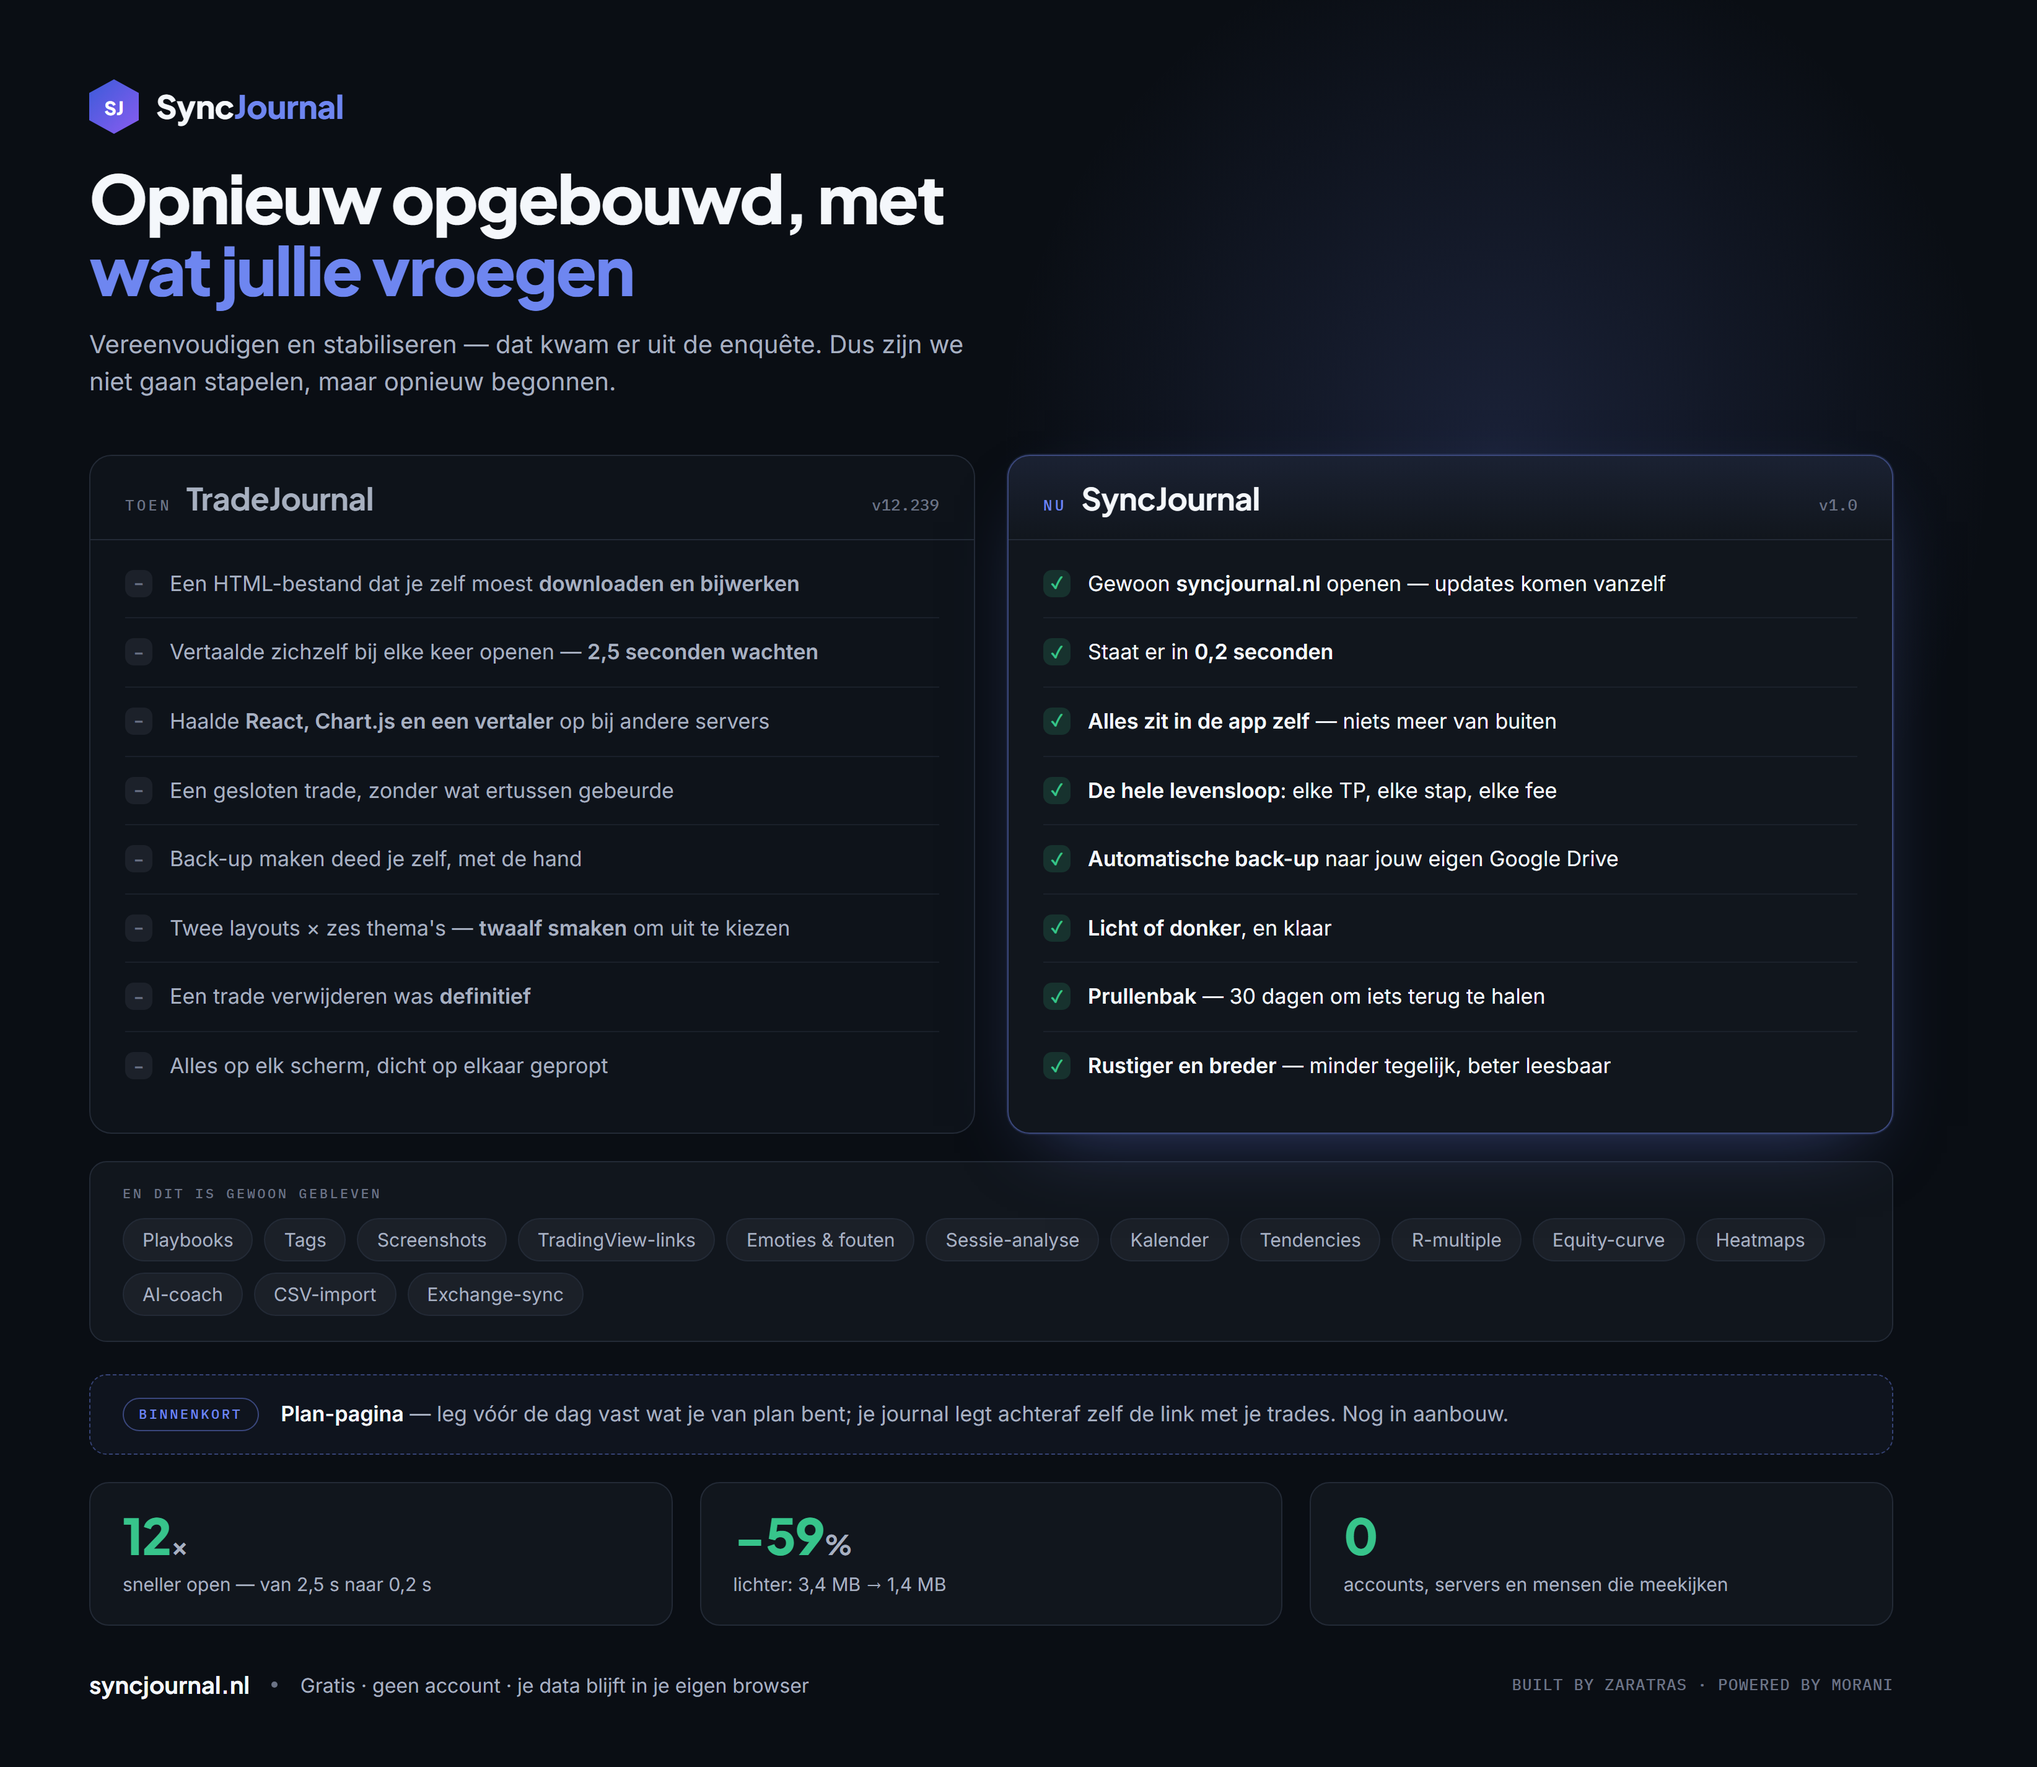
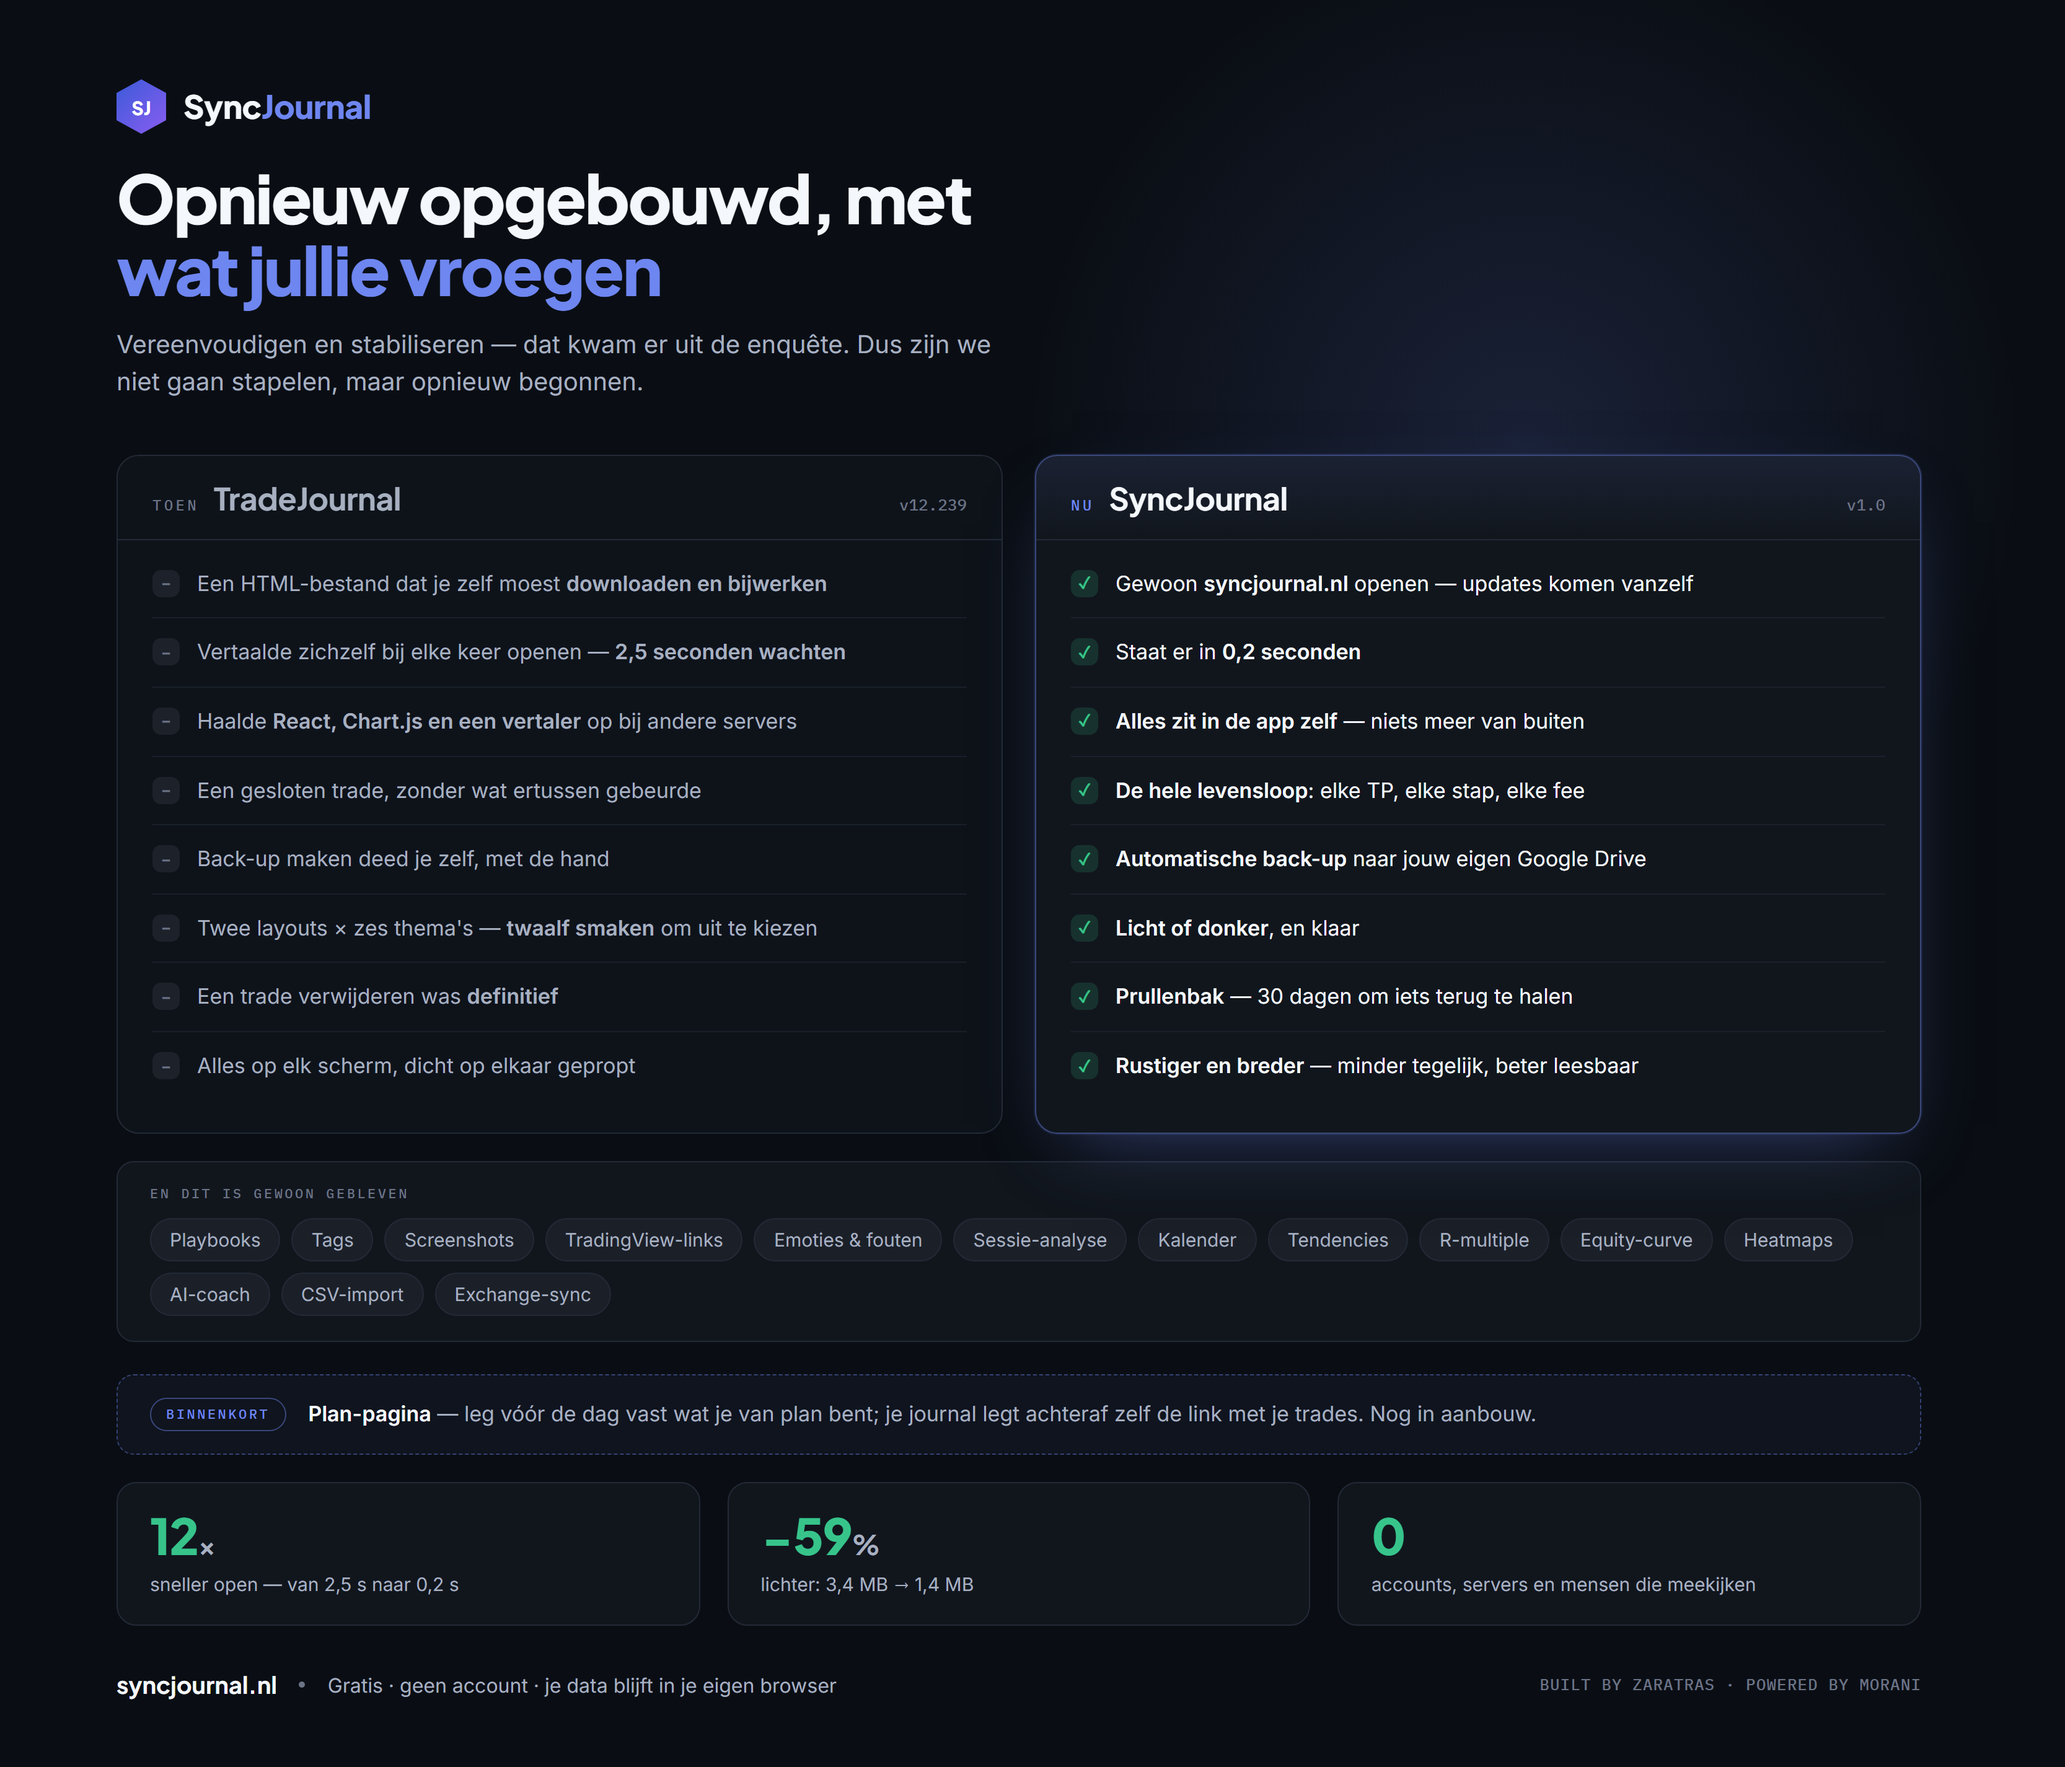
docs: centre the comparison page in the browser
It had a fixed width and no auto margin, so it sat against the left edge in a wide
window. margin-inline:auto plus max-width:100%; the PNG render is unaffected since
it sizes the viewport to the content.

diff --git a/demos/release-vergelijking.html b/demos/release-vergelijking.html
@@ -17,7 +17,7 @@
   }
   *{box-sizing:border-box;margin:0}
   body{background:var(--bg);color:var(--fg);font-family:var(--body);
-       width:1600px;padding:64px 72px 56px}
+       width:1600px;max-width:100%;margin-inline:auto;padding:64px 72px 56px}
 
   /* zachte gloed achter de nieuwe kolom, zodat het oog daar landt */
   .plaat{position:relative}
